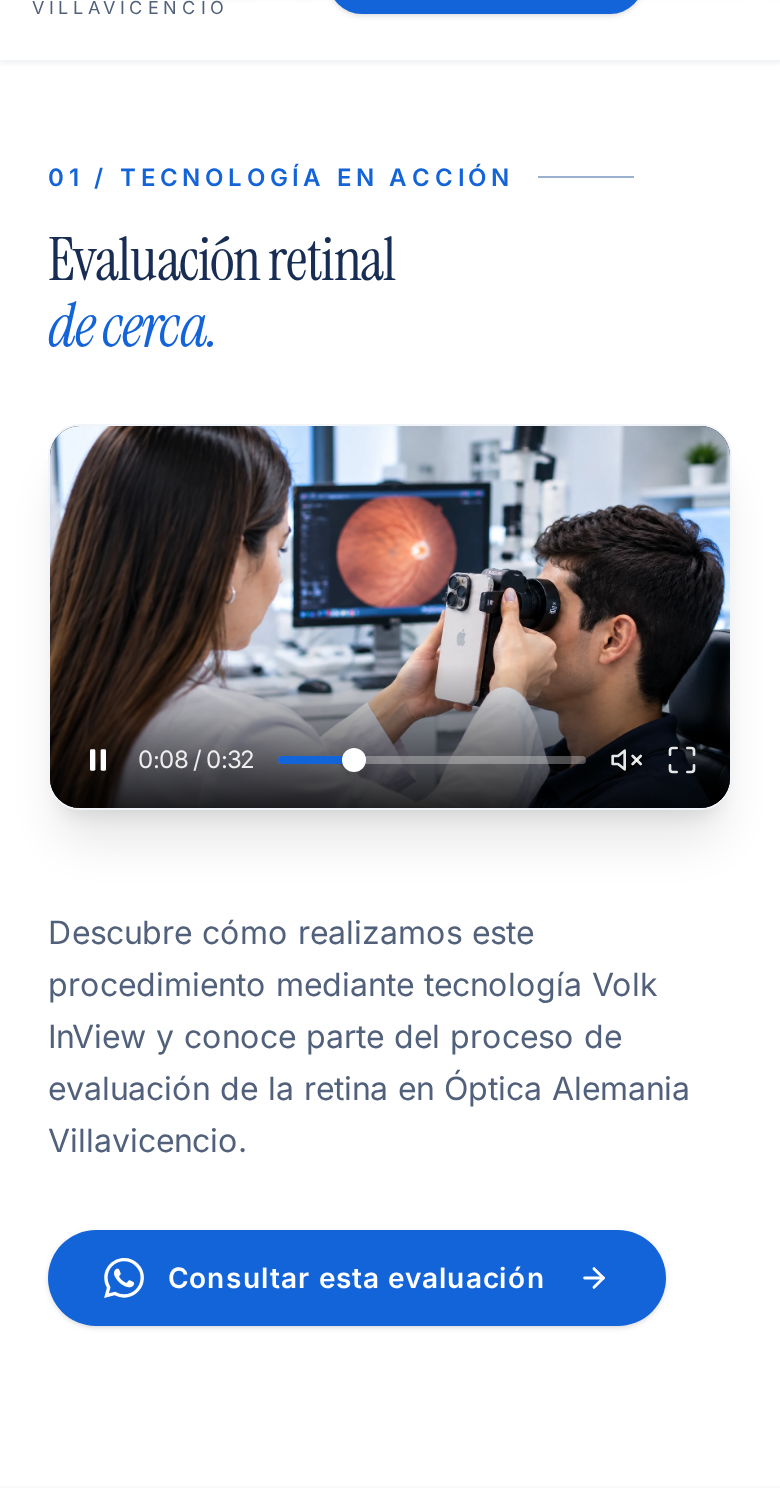
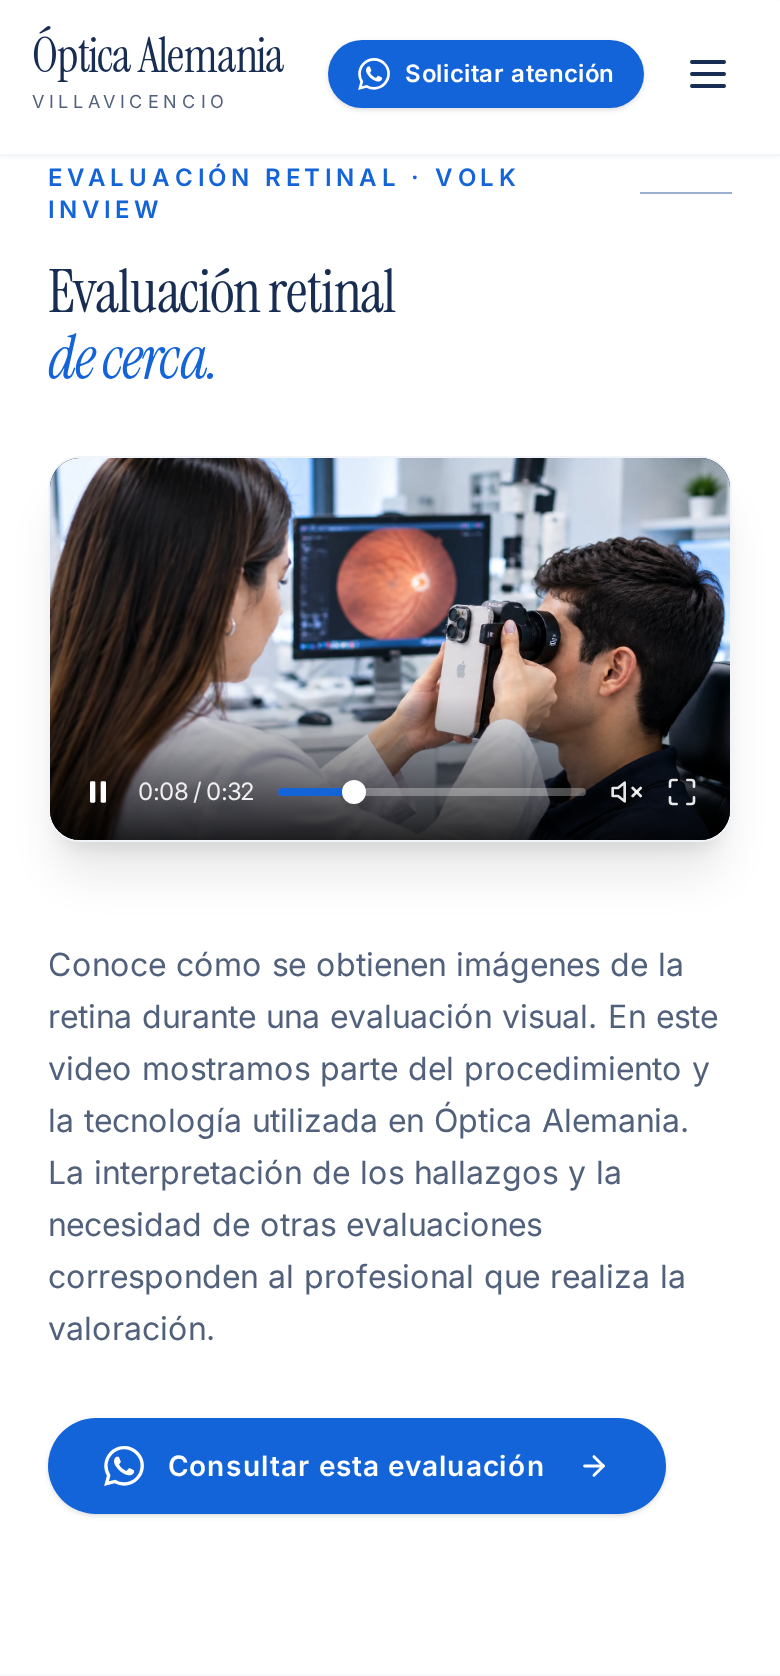
docs(odd): update tasks document with certified commit fea5c36 for procedimientos

diff --git a/odd/tasks/copys-paginas.md b/odd/tasks/copys-paginas.md
@@ -45,8 +45,8 @@ S11: Verificación estricta con `pnpm build` y `node scripts/test-procedimientos
 - T2 [S4]: Verificación con build y Playwright test (`node scripts/test-landing.mjs`) | Route: inline | Status: done | Commit: 2772342
 - T3 [S5,S6,S7]: Implementar actualización de copys de `/nosotros` en `src/pages/nosotros.astro` y componentes `src/components/about/*` | Route: inline | Status: done | Commit: c4fb806
 - T4 [S8]: Verificación con build y Playwright test (`node scripts/test-nosotros.mjs`) | Route: inline | Status: done | Commit: c4fb806
-- T5 [S9,S10]: Implementar actualización de copys de `/procedimientos` en `src/pages/procedimientos.astro` y componentes `src/components/procedimientos/*` | Route: inline | Status: pending | Commit: pending
-- T6 [S11]: Verificación con build y Playwright test (`node scripts/test-procedimientos.mjs`) | Route: inline | Status: pending | Commit: pending
+- T5 [S9,S10]: Implementar actualización de copys de `/procedimientos` en `src/pages/procedimientos.astro` y componentes `src/components/procedimientos/*` | Route: inline | Status: done | Commit: fea5c36
+- T6 [S11]: Verificación con build y Playwright test (`node scripts/test-procedimientos.mjs`) | Route: inline | Status: done | Commit: fea5c36
 
 ## Log
 L1: "rey vamos a empezar a modificar los copys de las secciones de cada apgina, empecemos por home donde su copy es home copy que no esta en este worktree sino en el repo princial, para que lo analices y sobre todo tengas tu criterior de si es mejor el nuevo copy o el viejo que esta, analizalo seccion por seccion antes de implementar por favor"
@@ -55,3 +55,4 @@ L3: Home implementado y certificado en commit 2772342.
 L4: Usuario solicita continuar con Nosotros ("ahora sigue la de nosotros/about rey"), se presenta análisis sección por sección y se aprueba con la directiva: "ajustalo rey".
 L5: Nosotros implementado y certificado en commit c4fb806.
 L6: Usuario solicita continuar con Procedimientos ("ahora procedimientos rey"), se presenta análisis sección por sección y se aprueba con la directiva: "si rey, dale".
+L7: Procedimientos implementado y certificado en commit fea5c36 con build y Playwright test (0 errores consola, 0 404s, 0 overflow).
